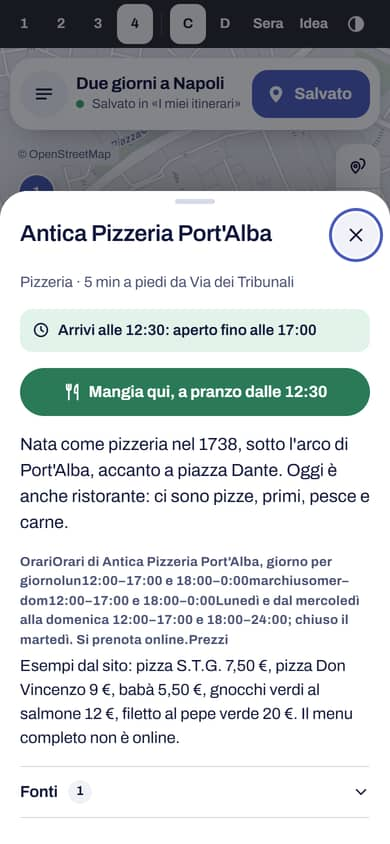
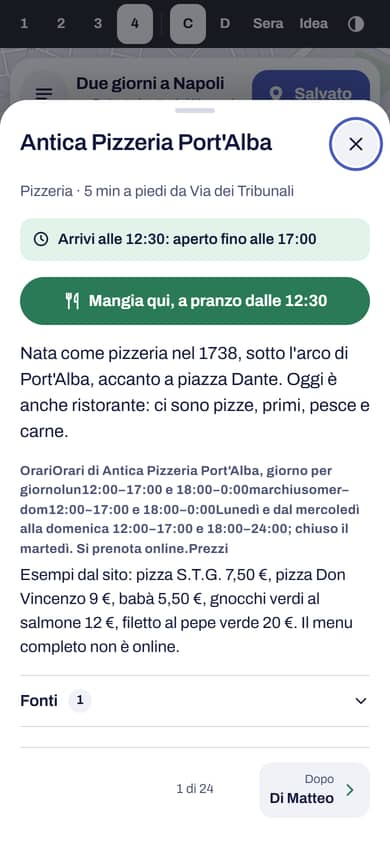
Pezzo 7: Enrico sceglie la 2 «Il menù»; scheda del locale che si sfoglia, «No, grazie» con «Rimettile», schede chiuse tirando giù con decisione da qualsiasi punto
Schede di tappe e locali da rifare annotate nella ROADMAP. axe pulito in 128 controlli, nessuno scorrimento di lato a 320 e 390 px.

diff --git a/design/compositore/mangiare-giro-1/app.js b/design/compositore/mangiare-giro-1/app.js
@@ -367,14 +367,15 @@
     const dopoDi = id => { const i = tp.findIndex(v => v.id === id); return tp[i + 1]?.id ?? null; };
     const conLocale = q => tp.some(v => T(v.id).categoria && v.inizio < PASTI[q].a && v.fine > PASTI[q].da);
     const p = Gx.pause.find(x => x.quale === 'pranzo');
-    if (p && !conLocale('pranzo') && !S.noGrazie[`${g}-pranzo`]) out.push({ g, q: 'pranzo', dove: p.dove, ora: p.inizio, min: p.min, pausa: true, dopo: dopoDi(p.dove) });
+    if (p && !conLocale('pranzo')) out.push({ g, q: 'pranzo', dove: p.dove, ora: p.inizio, min: p.min, pausa: true, dopo: dopoDi(p.dove), nascosto: !!S.noGrazie[`${g}-pranzo`] });
     const Ce = PASTI.cena, ultima = tp[tp.length - 1];
-    if (Gx.fineScelta >= Ce.a - 60 && Gx.inizio < Ce.a && !conLocale('cena') && !S.noGrazie[`${g}-cena`] && !T(ultima.id).categoria) {
+    if (Gx.fineScelta >= Ce.a - 60 && Gx.inizio < Ce.a && !conLocale('cena') && !T(ultima.id).categoria) {
+      const nascosto = !!S.noGrazie[`${g}-cena`];
       const fineU = ultima.fine + Gx.pause.filter(x => x.dove === ultima.id).reduce((s, x) => s + x.min, 0);
-      if (fineU <= Ce.a) out.push({ g, q: 'cena', dove: ultima.id, ora: Math.max(fineU, Ce.da), min: 60, dopo: null, attesa: Math.max(0, Ce.da - fineU) });
+      if (fineU <= Ce.a) out.push({ g, q: 'cena', dove: ultima.id, ora: Math.max(fineU, Ce.da), min: 60, dopo: null, attesa: Math.max(0, Ce.da - fineU), nascosto });
       else {
         const v = tp.slice(0, -1).reduce((a, b) => (Math.abs(b.fine - Ce.ora) < Math.abs(a.fine - Ce.ora) ? b : a), tp[0]);
-        if (v.fine >= Ce.da - 30 && v.fine <= Ce.a) out.push({ g, q: 'cena', dove: v.id, ora: v.fine, min: 60, dopo: dopoDi(v.id) });
+        if (v.fine >= Ce.da - 30 && v.fine <= Ce.a) out.push({ g, q: 'cena', dove: v.id, ora: v.fine, min: 60, dopo: dopoDi(v.id), nascosto });
       }
     }
     return out;
@@ -459,7 +460,7 @@
   function sequenzaM(Gx, g) {
     const voci = sequenza(Gx), ms = momenti(g, Gx);
     for (const m of ms) {
-      if (m.pausa) { const i = voci.findIndex(v => v.tipo === 'pausa' && v.quale === 'pranzo'); if (i >= 0) voci[i] = { tipo: 'pasto', m }; continue; }
+      if (m.pausa) { const i = voci.findIndex(v => v.tipo === 'pausa' && v.quale === 'pranzo'); if (i >= 0) { if (m.nascosto) voci.splice(i + 1, 0, { tipo: 'pasto', m }); else voci[i] = { tipo: 'pasto', m }; } continue; }
       let i = voci.findIndex(v => v.tipo === 'tappa' && v.id === m.dove);
       while (voci[i + 1]?.tipo === 'pausa') i++;
       voci.splice(i + 1, 0, { tipo: 'pasto', m });
@@ -473,6 +474,7 @@
   const pausaInfo = (m, cl) => (m.pausa ? `<button type="button" class="${cl}" data-azione="pausa" data-quale="pranzo">Pausa di ${durataLunga(m.min)}: cambia</button>` : '');
   function rigaPasto(m, vista) {
     const tag = vista === 'c' ? 'li' : 'div', base = `${vista}-pasto pasto-${PM}`, chiave = `data-chiave="pasto-${m.q}"`;
+    if (m.nascosto) return `<${tag} class="${vista}-pasto pasto-nascosto" ${chiave}><p class="pm-rimetti">${ic('posate', 16)}<span>${m.q === 'pranzo' ? 'Niente proposte per il pranzo' : 'Niente proposte per la cena'}</span><button type="button" class="pm-link" data-azione="pasto-si" ${datiM(m)}>Rimettile</button></p></${tag}>`;
     const lista = vicini(m), ap = aperti(m), oraT = `<span class="num">${ora(m.ora)}</span>`;
     const icona = `<span class="pm-ic" aria-hidden="true">${ic('posate', vista === 'c' ? 17 : 22)}</span>`;
     if (PM === 1) {
@@ -532,6 +534,7 @@
     const corpo = () => {
       const tutti = vicini(m), ord = perStrada ? [...tutti].sort((a, b) => (a.stato === 'chiuso') - (b.stato === 'chiuso') || a.dev - b.dev || a.min - b.min) : tutti;
       const l = filtra(ord, f0), si = l.filter(x => x.stato !== 'chiuso'), no = l.filter(x => x.stato === 'chiuso');
+      ordineLocali = [...si, ...no].map(x => x.id);
       const conta = f => filtra(tutti, f).filter(x => x.stato !== 'chiuso').length;
       return `<p class="pl-quando">${ic('posate', 18)}<span>${esc(quandoM(m))}. ${perStrada && m.dopo ? `In cima quelli che allungano meno la strada per ${esc(T(m.dopo).breve)}.` : 'Minuti dalla tappa prima.'}</span></p>
         <div class="f-chips pl-filtri" role="group" aria-label="Filtri">${FILTRI_M.map(([k, n]) => `<button type="button" class="f-chip" data-f="filtro" data-v="${k}" aria-pressed="${k === f0}"${conta(k) || k === f0 ? '' : ' disabled'}>${n} <span class="num">${conta(k)}</span></button>`).join('')}</div>
@@ -547,6 +550,7 @@
     const corpo = () => {
       const tutti = vicini(m), si = tutti.filter(x => x.stato !== 'chiuso' && x.min <= mx), no = tutti.filter(x => x.stato === 'chiuso' && x.min <= mx);
       const gruppi = [...new Set(si.map(x => tipoL(x.id)))].map(t => [t, si.filter(x => tipoL(x.id) === t)]);
+      ordineLocali = [...gruppi.flatMap(([, l]) => l), ...no].map(x => x.id);
       const voce = x => `<li class="mn-v${x.stato === 'chiuso' ? ' mn-v--chiuso' : ''}"><details><summary><span class="mn-nome">${esc(T(x.id).nome)}</span><span class="mn-punti" aria-hidden="true"></span><span class="mn-min num">${x.min < 2 ? 'accanto' : `${x.min} min`}</span><small class="mn-sotto">${esc(x.nota)}${euro(x.id) ? ` · ${euro(x.id)}` : ''}${x.mezzi ? ' · con i mezzi' : ''}</small></summary>
         <div class="mn-dentro"><p>${esc(T(x.id).frase || '')}</p><div class="mn-az">${x.stato === 'chiuso' ? '' : `<button type="button" class="f-bottone" data-f="scegli" data-v="${x.id}">${ic('posate', 18)}Mangia qui, dalle ${ora(x.arrivo)}</button>`}<button type="button" class="f-bottone f-bottone--contorno" data-f="scheda" data-v="${x.id}">La scheda</button></div></div></details></li>`;
       return `<div class="mn"><p class="mn-testa"><i>${m.q === 'pranzo' ? 'Pranzo' : 'Cena'}</i><span>dalle <span class="num">${ora(m.ora)}</span>, intorno a ${esc(T(m.dove).breve)}</span></p>
@@ -573,18 +577,29 @@
           : `<p class="pm3-carta__t"><b>${esc(riassuntoM(m).replace(/^./, s => s.toUpperCase()))}</b><small>Tocca un locale sulla mappa. Pieni gli aperti, vuoti i chiusi; i cerchi sono 5 e 10 minuti a piedi in linea d'aria.</small></p>`;
       };
       carta(scelto);
+      ordineLocali = vicini(m).filter(x => x.min <= 15).map(x => x.id);
       f.onclick = e => clickFoglioM(e, f, m, null, () => apriMappaPasto(m, scelto));
     }, 'f--pasto f--mappa-pasto');
   }
-  // la scheda del locale, dal pasto: la scheda vera e «Mangia qui» con l'ora
-  function schedaPasto(id, m, indietro) {
+  // la scheda del locale, dal pasto: la scheda vera e «Mangia qui» con l'ora. In fondo «prima» e «dopo» con il nome del locale,
+  // nell'ordine dell'elenco da cui l'hai aperta (nel menù: per tipo); col dito si gira di lato, come le schede delle tappe.
+  let ordineLocali = [];
+  function schedaPasto(id, m, indietro, verso = 0) {
     const x = vicini(m).find(y => y.id === id);
+    const lista = ordineLocali.includes(id) ? ordineLocali : vicini(m).map(y => y.id), i = lista.indexOf(id), prima = lista[i - 1], dopo = lista[i + 1];
+    const vai = (v, dir) => (v ? `<button type="button" class="pl-sf pl-sf--${dir < 0 ? 'prima' : 'dopo'}" data-f="sfoglia" data-v="${v}" data-dir="${dir}">${ic(dir < 0 ? 'indietro' : 'avanti', 20)}<span><small>${dir < 0 ? 'Prima' : 'Dopo'}</small><b>${esc(T(v).breve)}</b></span></button>` : '<span></span>');
+    const sfoglia = lista.length > 1 ? `<nav class="pl-sfoglia" aria-label="Altri locali">${vai(prima, -1)}<span class="pl-sf__n num">${i + 1} di ${lista.length}</span>${vai(dopo, 1)}</nav>` : '';
     const corpo = `${indietro ? `<button type="button" class="r-indietro" data-f="indietro">${ic('indietro', 18)}Torna ai locali</button>` : ''}
       <p class="sch-quando">${esc(tipoL(id))}${euro(id) ? ` · ${euro(id)}` : ''} · ${x ? `${minTesto(x)} da ${esc(T(m.dove).breve)}` : ''}</p>
       ${x ? `<p class="pl-stato-grande pl__stato--${x.stato}">${ic(x.stato === 'chiuso' ? 'attenzione' : 'orologio', 18)}<span>Arrivi alle ${ora(x.arrivo)}: ${esc(x.nota)}</span></p>` : ''}
       ${x && x.stato !== 'chiuso' ? `<button type="button" class="f-bottone pl-scegli" data-f="scegli" data-v="${id}">${ic('posate', 20)}Mangia qui, ${m.q === 'pranzo' ? 'a pranzo' : 'a cena'} dalle ${ora(x.arrivo)}</button>` : ''}
-      <div class="sch-testo">${testoScheda(id)}</div>${sezioni(id)}${fontiScheda(id)}`;
-    foglio(T(id).nome, corpo, f => { f.onclick = e => clickFoglioM(e, f, m, null, indietro); }, 'f--scheda f--fuori f--pasto');
+      <div class="sch-testo">${testoScheda(id)}</div>${sezioni(id)}${fontiScheda(id)}${sfoglia}`;
+    foglio(T(id).nome, `<div class="pl-pagina">${corpo}</div>`, f => {
+      f.onclick = e => clickFoglioM(e, f, m, null, indietro);
+      f.sfoglia = dir => { const v = lista[i + dir]; if (v) schedaPasto(v, m, indietro, dir); return !!v; };
+      f.puoi = dir => !!lista[i + dir];
+      if (verso) { f.scrollTop = 0; if (piano()) $('.pl-pagina', f).animate([{ translate: `${verso * 48}px 0`, opacity: 0 }, { translate: '0 0', opacity: 1 }], { duration: 300, easing: 'cubic-bezier(.16,1,.3,1)' }); annuncia(`${T(id).nome}, ${i + 1} di ${lista.length}`); }
+    }, 'f--scheda f--fuori f--pasto');
   }
   async function clickFoglioM(e, f, m, filtro, torna, quanto) {
     if (e.target === f) { chiudiFoglio(); return; }
@@ -594,6 +609,7 @@
     if (k === 'filtro' && filtro) filtro(v);
     else if (k === 'quanto' && quanto) quanto(+v);
     else if (k === 'scheda') schedaPasto(v, m, torna);
+    else if (k === 'sfoglia') { const dir = +b.dataset.dir; f.sfoglia?.(dir); requestAnimationFrame(() => $(`.pl-sf--${dir < 0 ? 'prima' : 'dopo'}`, f)?.focus({ preventScroll: true })); }
     else if (k === 'indietro') torna?.();
     else if (k === 'elenco') apriElenco(m);
     else if (k === 'scegli') { await chiudiFoglio(); mangiaQui(m, v); }
@@ -1015,7 +1031,7 @@
     foglioEl.className = cl;
     foglioEl.innerHTML = `<div class="f-testa"><span class="f-maniglia" aria-hidden="true"></span><h2 id="f-titolo">${esc(titolo)}</h2><button type="button" class="f-chiudi" aria-label="Chiudi">${ic('x')}</button></div><div class="f-corpo">${corpo}</div>`;
     $('.f-chiudi', foglioEl).onclick = () => chiudiFoglio();
-    foglioEl.onclick = null; foglioEl.onchange = null; foglioEl.onkeydown = null;
+    foglioEl.onclick = null; foglioEl.onchange = null; foglioEl.onkeydown = null; foglioEl.sfoglia = null; foglioEl.puoi = null;
     foglioEl.style.translate = '';
     if (!foglioEl.open) foglioEl.showModal();
     dopoAperto?.(foglioEl);
@@ -2158,8 +2174,9 @@
     'sposta-apri': b => { const box = b.closest('.riga-aperta').querySelector('.ra-sposta'); const si = box.hidden; box.hidden = !si; b.setAttribute('aria-expanded', String(si)); if (si) $('button', box)?.focus(); },
     pronto: () => avvisa('Prova: qui si aprirebbe un altro itinerario.'),
     'pasto-apri': b => { const m = trovaM(b.dataset.k); if (m) apriPasto(m); },
-    'pasto-scheda': b => { const m = trovaM(b.dataset.k); if (m) schedaPasto(b.dataset.id, m, null); },
-    'pasto-no': b => { const m = trovaM(b.dataset.k); if (m) noGrazie(m); }
+    'pasto-scheda': b => { const m = trovaM(b.dataset.k); if (!m) return; const l = vicini(m).filter(x => x.stato !== 'chiuso'); ordineLocali = (PM === 4 ? [...l].sort((a, c) => a.dev - c.dev || a.min - c.min) : l).map(x => x.id); schedaPasto(b.dataset.id, m, null); },
+    'pasto-no': b => { const m = trovaM(b.dataset.k); if (m) noGrazie(m); },
+    'pasto-si': b => { const k = b.dataset.k; aggiorna(() => { const x = { ...S.noGrazie }; delete x[k]; S.noGrazie = x; }); annuncia('Proposte rimesse'); }
   };
   $('#app').addEventListener('click', e => {
     const b = e.target.closest('[data-azione]');
@@ -2771,7 +2788,7 @@
       if (!dir) {
         if (Math.hypot(dx, dy) < 8) return;
         dir = Math.abs(dx) > Math.abs(dy) * 1.2 ? 'h' : 'v';
-        if (dir === 'v' && !(dallaTesta || sch.detent === 'meta' || (corpo.scrollTop <= 0 && dy > 0 && !computer.matches))) { dir = 'x'; return; }
+        if (dir === 'v' && !(dallaTesta || sch.detent === 'meta' || (e.pointerType !== 'touch' && corpo.scrollTop <= 0 && dy > 0 && !computer.matches))) { dir = 'x'; return; }
         if (dir === 'v' && computer.matches) { dir = 'x'; return; }
         try { schEl.setPointerCapture(e.pointerId); } catch {}
         if (dir === 'v') p.style.transition = 'none';
@@ -2798,6 +2815,49 @@
     schEl.addEventListener('pointermove', muovi); schEl.addEventListener('pointerup', su); schEl.addEventListener('pointercancel', su);
   });
   schEl.addEventListener('click', e => { if (schTolto) { e.stopPropagation(); e.preventDefault(); } }, true);
+  // Da telefono, un foglio aperto del tutto si chiude tirando giù da qualsiasi punto (Enrico, 14/10/2026), ma solo se il testo
+  // era già in cima quando hai appoggiato il dito (chi risale leggendo e arriva in cima non lo chiude nello stesso gesto) e solo
+  // con un gesto deciso: più di 200 px, o più di 110 px veloce. Altrimenti torna su. Se il foglio sa sfogliare, di lato gira pagina.
+  function tiraPerChiudere(el, { pronto, scorre, pannello, chiudi }) {
+    let t = null;
+    el.addEventListener('touchstart', e => {
+      t = null;
+      if (!pronto() || computer.matches || e.touches.length !== 1 || e.target.closest('a, input, summary, .f-testa, .sch1__testa, .m, .f-chips, .mn-quanto')) return;
+      const sc = scorre();
+      t = { x: e.touches[0].clientX, y: e.touches[0].clientY, t: performance.now(), dir: null, dy: 0, dx: 0, cima: !sc || sc.scrollTop <= 0 };
+    }, { passive: true });
+    el.addEventListener('touchmove', e => {
+      if (!t) return;
+      const dx = e.touches[0].clientX - t.x, dy = e.touches[0].clientY - t.y;
+      if (!t.dir) {
+        if (Math.hypot(dx, dy) < 8) return;
+        t.dir = dy > 0 && dy > Math.abs(dx) * 1.2 && t.cima ? 'giu' : Math.abs(dx) > Math.abs(dy) * 1.2 && el.sfoglia ? 'lato' : 'no';
+        if (t.dir === 'giu') pannello().style.transition = 'none';
+      }
+      if (t.dir === 'no') return;
+      e.preventDefault();
+      if (t.dir === 'giu') { t.dy = dy; pannello().style.translate = `0 ${(dy * .6).toFixed(1)}px`; }
+      else { t.dx = dx; const p = $('.pl-pagina', el), x = el.puoi?.(dx < 0 ? 1 : -1) ? dx : dx * .25; if (p && piano()) { p.style.translate = `${x.toFixed(1)}px 0`; p.style.opacity = String(Math.max(.35, 1 - Math.abs(x) / 520)); } }
+    }, { passive: false });
+    const fine = () => {
+      if (!t || t.dir === 'no' || !t.dir) { t = null; return; }
+      const ms = Math.max(1, performance.now() - t.t);
+      schTolto = true; setTimeout(() => { schTolto = false; }, 60);
+      if (t.dir === 'giu') {
+        const p = pannello(), v = t.dy / ms;
+        p.style.transition = '';
+        if (t.dy > 200 || (t.dy > 110 && v > .9)) { chiudi(); setTimeout(() => { p.style.translate = ''; }, 420); }
+        else { const da = p.style.translate; p.style.translate = ''; if (piano() && da) p.animate([{ translate: da }, { translate: '0 0' }], { duration: 300, easing: 'cubic-bezier(.16,1,.3,1)' }); }
+      } else {
+        const p = $('.pl-pagina', el), dir = t.dx < 0 ? 1 : -1;
+        if (!((Math.abs(t.dx) > 70 || Math.abs(t.dx) / ms > .45) && el.sfoglia(dir)) && p) { const da = { translate: p.style.translate || '0px 0', opacity: p.style.opacity || '1' }; p.style.translate = ''; p.style.opacity = ''; if (piano()) p.animate([da, { translate: '0px 0', opacity: 1 }], { duration: 300, easing: 'cubic-bezier(.16,1,.3,1)' }); }
+      }
+      t = null;
+    };
+    el.addEventListener('touchend', fine); el.addEventListener('touchcancel', fine);
+  }
+  tiraPerChiudere(schEl, { pronto: () => sch?.q === 1 && sch.detent === 'tutto', scorre: () => $('.sch1__corpo', schEl), pannello: () => $('.sch1__pannello', schEl), chiudi: () => Q1.chiudi() });
+  tiraPerChiudere(foglioEl, { pronto: () => foglioEl.open, scorre: () => foglioEl, pannello: () => foglioEl, chiudi: () => chiudiFoglio() });
 
   // ---------- 2 · LA RIGA SI APRE ----------
   // La tappa si allarga sul posto: la foto cresce dalla miniatura, i tratti prima e dopo restano dove sono. Dentro: quando,

diff --git a/design/compositore/mangiare-giro-1/mangiare.css b/design/compositore/mangiare-giro-1/mangiare.css
@@ -190,3 +190,24 @@
 .pd #foglio.f--pasto .pl__t b, .pd .f--pasto .pl__t b { font: 600 17px/1.25 "Bodoni Moda", Georgia, serif; }
 .pc .pm1__scelte, .pc .pm4__carte { scroll-padding-inline-start: 52px; }
 .pd .pm1__scelte, .pd .pm4__carte { scroll-padding-inline-start: 4px; }
+
+/* «No, grazie» si può togliere: una riga piccola sotto la pausa (o al posto della cena) */
+.pasto-nascosto { list-style: none; }
+.pm-rimetti { margin: 0; display: flex; align-items: center; gap: 8px; flex-wrap: wrap; padding: 2px 6px 2px 52px; font-size: 13.5px; color: var(--ink2); }
+.pm-rimetti .ic { color: var(--cibo); flex: none; }
+.pm-rimetti .pm-link { color: var(--cibo); }
+.pd .pm-rimetti { padding: 10px 4px 0; justify-content: center; }
+
+/* la scheda del locale: prima e dopo, con il nome */
+.pl-pagina { display: grid; grid-template-columns: minmax(0, 1fr); gap: 16px; min-width: 0; }
+.pl-sfoglia { display: grid; grid-template-columns: minmax(0, 1fr) auto minmax(0, 1fr); align-items: center; gap: 8px; margin-top: 4px; padding-top: 14px; border-top: 1px solid var(--f-riga); }
+.pl-sf { max-width: 100%; min-height: 56px; display: flex; align-items: center; gap: 6px; padding: 6px 10px; border-radius: 14px; text-align: left; background: var(--f-sup2); min-width: 0; }
+.pl-sf--dopo { flex-direction: row-reverse; text-align: right; justify-self: end; }
+.pl-sf--prima { justify-self: start; }
+.pl-sf .ic { flex: none; color: var(--cibo); }
+.pl-sf span { display: grid; min-width: 0; }
+.pl-sf small { font-size: 12px; color: var(--ink2); }
+.pl-sf b { font-weight: 650; font-size: 14.5px; white-space: nowrap; overflow: hidden; text-overflow: ellipsis; }
+.pl-sf__n { font-size: 13px; color: var(--ink2); }
+.pd .pl-sf b { font: 600 16px/1.2 "Bodoni Moda", Georgia, serif; }
+#foglio.f--pasto { overflow-x: hidden; }

diff --git a/PROGRESS.md b/PROGRESS.md
@@ -8,7 +8,7 @@ _Aggiornato il 13/10/2026. Ramo `compositore-pagina` (Claude) unito con `main` i
 - **Pezzo 1 scelto (08/10/2026): C «Mappa prima» e D «Le pagine»**, chi visita passa dall'una all'altra; ricerca di A; logo scuro ambra.
 - **Pezzo 2 scelto (13/10/2026): la scheda come foglio, timbro 2** (postale, con il giorno della visita), ordine più corto, barra del tempo.
 - **Pezzo 3 scelto (13/10/2026): file di cartoline con il segno 4** (il corsivo), avviso in basso −10%. Parole chiave rimandate alla riscrittura dei testi delle tappe.
-- **Specifica aggiornata e approvata (13/10/2026)**: pezzo 4 nuovo «Da dove parti?» (§10: facoltativo; alloggio tutto dal sito, senza servizi esterni; stazioni e porti sì); pezzo 5 «Salva» com'è nelle prove, niente «Tutti i giorni». **Pezzo 4, giro 1 (14/10/2026)**: https://claude.ai/artifact/VsuPUwPwehrh6jC3UnMhCi, 4 proposte dentro C e D (1 il biglietto, 2 sulla mappa, 3 la prima domanda, 4 il viaggio), con la stima vera e l'ordine migliore da lì; axe pulito in 120 controlli. **Enrico sceglie la 2 «Sulla mappa» ma mette il pezzo in stand-by (14/10/2026)**: si riprende più avanti, con fermate e linee vicine al punto e la scritta «beta» (specifica §10). **Mappa (pezzo 6) decisa il 14/10/2026**: anche senza rete, strada A (la nostra, con vicoli e scale su tutta la mappa, a pezzi), aspetto delle prove, nomi delle vie principali e di quelle del percorso (specifica §6). **Peso misurato (14/10/2026)**: tutta la città con vicoli, scale e nomi = 224 KB compressi in 59 pezzi da 1,28 km (mediana 3 KB); il telefono ne scarica 1–6 per vista ([numeri](ricerca/2026-10-14-mappa-peso.md)). Prova in C e D: https://claude.ai/artifact/DoCdKadtBTAMXDHaYZhZoT. **Enrico sceglie la proposta 1 (14/10/2026)**: tutto a pezzi da 1,28 km (specifica §6). **Dati pronti (14/10/2026)**: `scripts/mappa/strade.mjs` → `src/data/strade.json`, pezzi serviti in `/napoli/itinerari/strade/`, calcoli in `src/lib/itinerari/strade.ts` con i test. Su richiesta di Enrico non sono collegati alla mappa del compositore di oggi (provati lì e poi tolti): li userà la mappa del compositore nuovo, quando si costruisce. **Pezzo 7, giro 1 (14/10/2026)**: https://claude.ai/artifact/Ka4wHT2GqRZkCqo3p6apXZ, 4 proposte dentro C e D per mangiare nella giornata (1 la sosta, 2 il menù, 3 sulla mappa, 4 lungo la strada), con minuti e orari veri, «Mangia qui», «No, grazie» e la cena con «Sera»; axe pulito in 112 controlli. Aspetta la scelta di Enrico (`design/compositore/README.md`).
+- **Specifica aggiornata e approvata (13/10/2026)**: pezzo 4 nuovo «Da dove parti?» (§10: facoltativo; alloggio tutto dal sito, senza servizi esterni; stazioni e porti sì); pezzo 5 «Salva» com'è nelle prove, niente «Tutti i giorni». **Pezzo 4, giro 1 (14/10/2026)**: https://claude.ai/artifact/VsuPUwPwehrh6jC3UnMhCi, 4 proposte dentro C e D (1 il biglietto, 2 sulla mappa, 3 la prima domanda, 4 il viaggio), con la stima vera e l'ordine migliore da lì; axe pulito in 120 controlli. **Enrico sceglie la 2 «Sulla mappa» ma mette il pezzo in stand-by (14/10/2026)**: si riprende più avanti, con fermate e linee vicine al punto e la scritta «beta» (specifica §10). **Mappa (pezzo 6) decisa il 14/10/2026**: anche senza rete, strada A (la nostra, con vicoli e scale su tutta la mappa, a pezzi), aspetto delle prove, nomi delle vie principali e di quelle del percorso (specifica §6). **Peso misurato (14/10/2026)**: tutta la città con vicoli, scale e nomi = 224 KB compressi in 59 pezzi da 1,28 km (mediana 3 KB); il telefono ne scarica 1–6 per vista ([numeri](ricerca/2026-10-14-mappa-peso.md)). Prova in C e D: https://claude.ai/artifact/DoCdKadtBTAMXDHaYZhZoT. **Enrico sceglie la proposta 1 (14/10/2026)**: tutto a pezzi da 1,28 km (specifica §6). **Dati pronti (14/10/2026)**: `scripts/mappa/strade.mjs` → `src/data/strade.json`, pezzi serviti in `/napoli/itinerari/strade/`, calcoli in `src/lib/itinerari/strade.ts` con i test. Su richiesta di Enrico non sono collegati alla mappa del compositore di oggi (provati lì e poi tolti): li userà la mappa del compositore nuovo, quando si costruisce. **Pezzo 7, giro 1 (14/10/2026)**: https://claude.ai/artifact/Ka4wHT2GqRZkCqo3p6apXZ, 4 proposte dentro C e D per mangiare nella giornata (1 la sosta, 2 il menù, 3 sulla mappa, 4 lungo la strada), con minuti e orari veri, «Mangia qui», «No, grazie» e la cena con «Sera»; axe pulito in 112 controlli. **Enrico sceglie la 2 «Il menù» (14/10/2026)**; nella stessa pagina: scheda del locale che si sfoglia (frecce e dito), «No, grazie» con «Rimettile», schede chiuse tirando giù con decisione da qualsiasi punto. Schede di tappe e locali da rifare (`ROADMAP.md`).
 - Home: dall'11/10/2026 è la O4 di Codex (senza l'arco di pietra, che a Enrico non piaceva).
 - Da `main` per la costruzione: fonti delle regate fuori dagli elenchi (`src/lib/fonti-nextstop.mjs`, già nelle prove); «Sposta nel giorno» bloccato se non c'è posto (`spostamenti.ts`, 7 giorni e 14 tappe); pannello Fonti «D» in fondo alle pagine.
 

diff --git a/specifiche/compositore.md b/specifiche/compositore.md
@@ -292,6 +292,6 @@ hanno tempi stimati (il ricalcolo dei tempi veri si fa nella costruzione).
 - [ ] Pezzo 4 · «Da dove parti?»: **in stand-by** (Enrico, 14/10/2026). Scelta la proposta 2 «Sulla mappa»; si riprende più avanti, con le fermate e le linee e la scritta «beta» (sezione 10).
 - [ ] Pezzo 5 · «Salva» com'è nelle prove: solo costruzione (niente vista separata, niente «Tutti i giorni»).
 - [ ] Pezzo 6 · mappa: deciso il 14/10/2026 (senza rete, strada A, aspetto delle prove, nomi delle vie principali e del percorso). Da costruire.
-- [ ] Pezzo 7 · mangiare nella giornata: giro 1 (14/10/2026), 4 proposte in `design/compositore/README.md`; aspetta la scelta.
+- [ ] Pezzo 7 · mangiare nella giornata: **scelta la proposta 2 «Il menù»** (Enrico, 14/10/2026), con la scheda del locale che si sfoglia, «No, grazie» che si può togliere e le schede che si chiudono tirando giù con decisione da qualsiasi punto (`design/compositore/README.md`). Da costruire.
 - [ ] Pezzo 8 · filtri dei locali (dati nuovi con le fonti, poi compositore e «Dove mangiare»).
 - [ ] Controlli, anteprima di Vercel, OK di Enrico, poi `main`.

diff --git a/ROADMAP.md b/ROADMAP.md
@@ -48,6 +48,7 @@ Approvata l'08/10/2026: `specifiche/compositore.md` (mappa in sospeso), con le r
 - [ ] **Fonti in fondo alla pagina a scomparsa**: oggi occupano metà pagina; si vede «Fonti di questa pagina» con la freccia e si apre toccando.
 - [ ] **Crediti delle foto** (autore, licenza) in fondo alla pagina insieme alle fonti, non sotto ogni foto.
 - [ ] «Dove mangiare», Napoli, fonti e pagine legali con la grafica nuova.
+- [ ] **Rifare le schede di tutte le tappe e di tutti i locali** (Enrico, 14/10/2026): testi, orari leggibili (oggi nei locali escono tutti attaccati), prezzi, come arrivare. Prima o poi, con la riscrittura dei testi.
 
 **Controlli**: consistent-ui **almeno 35 su 40**; Lighthouse su telefono 95 o più, axe in chiaro e scuro, 320 e 390 px.
 
